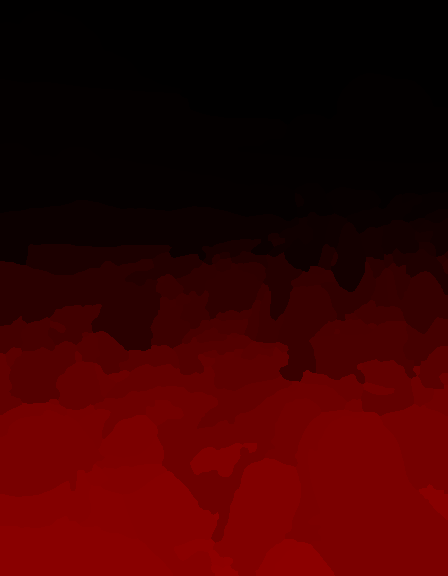
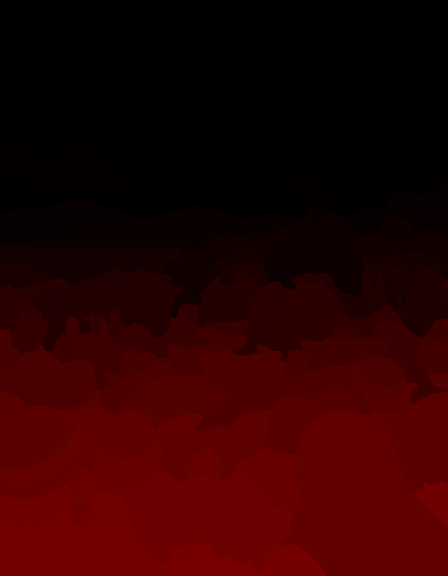
Coloring: The Feeding of the 5000 gets a coloring-book drawing, so it uses free painting like the other stories

diff --git a/AGENTS.md b/AGENTS.md
@@ -102,8 +102,10 @@ bgp-admin at `templates/agent-docs/`, so ask before adding it.
   `src/assets/coloring-marker/<slug>-lines.webp` (896x1152, dark brown lines on
   transparent), with no levels. Each stroke is locked to the closed shape it
   started in until the finger or mouse button is lifted (the maintainer's
-  rule; it used to last until a colour or size change). Only feeding-5000 (old painting, no coloring-art drawing
-  yet) still falls back to paint by numbers. The drawing was made with
+  rule; it used to last until a colour or size change). Every story has one (feeding-5000 since Nov 2026,
+  drawn from its old painting). To add one, also create an empty
+  coloring-marker/<slug>-lines.webp first: story-assets.cjs only rewrites it
+  when it exists. The drawing was made with
   gpt-image-2 (images/edits from the story painting, "children's coloring
   book page, bold closed outlines"), then thickened (blur 1.6 + steep alpha
   levels); scripts/story-assets.cjs rebuilds it from scripts/coloring-art/<slug>.png.
